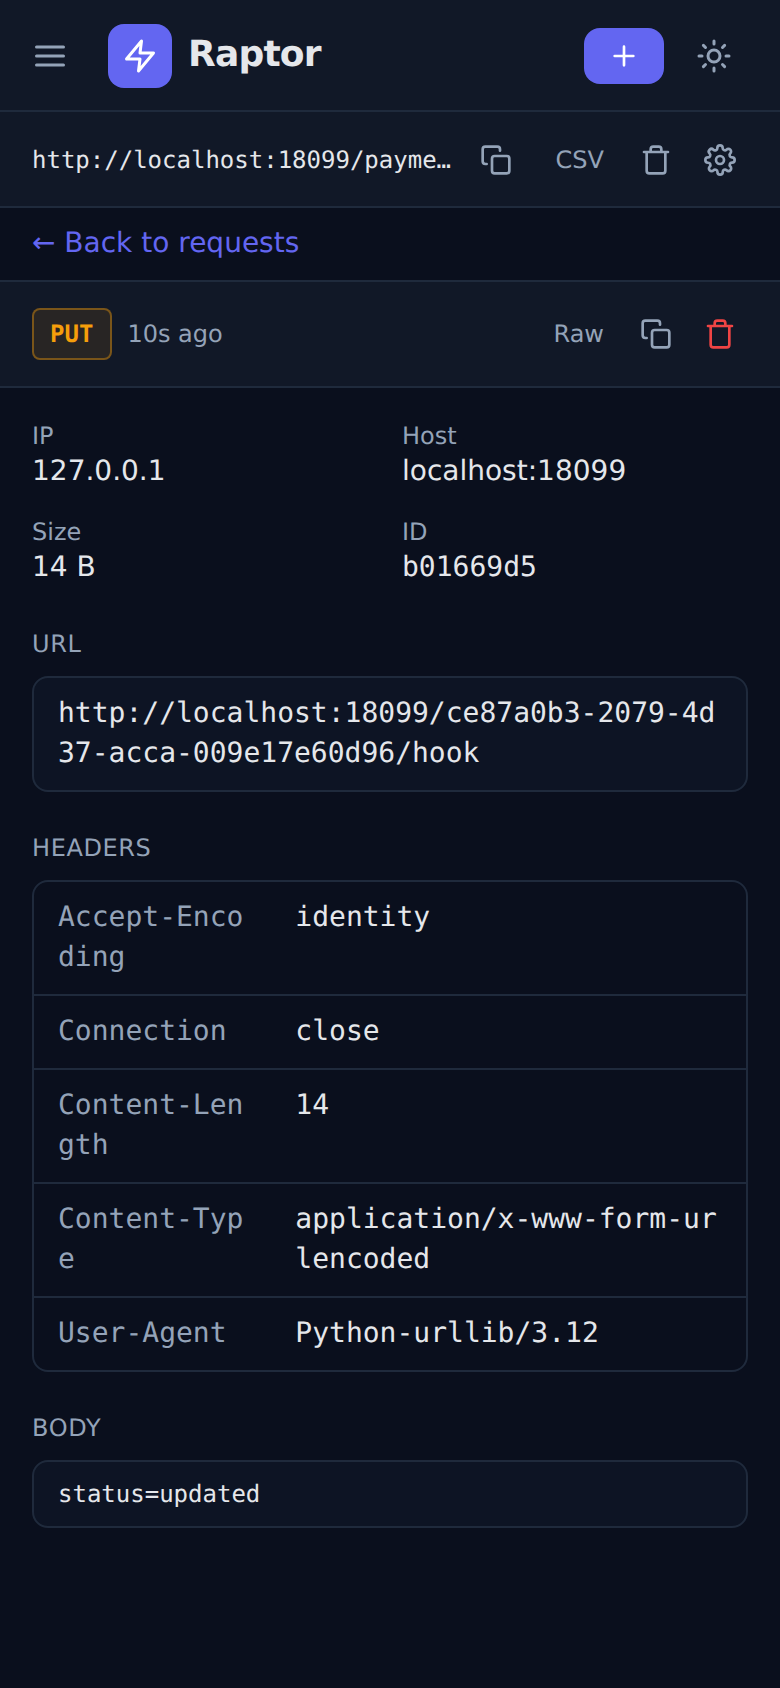
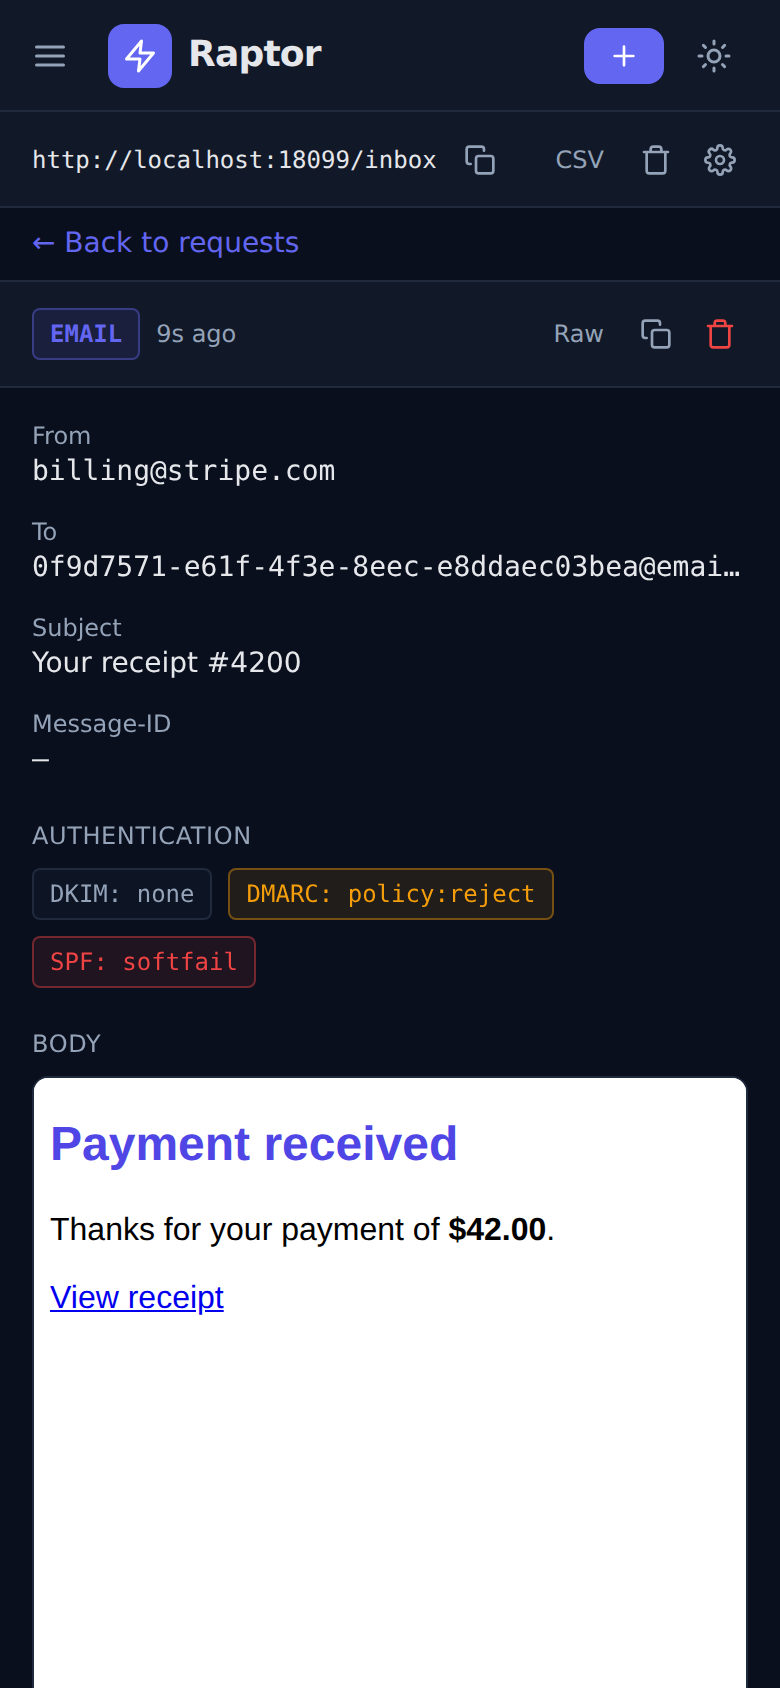
docs: Phase 3 README (email/DNS, setup notes) + OpenAPI schema + screenshots

diff --git a/README.md b/README.md
@@ -5,10 +5,10 @@
 inspect and (in later phases) transform, automate and forward inbound HTTP
 requests — all from a single static binary with an embedded UI.
 
-> Raptor is built in reviewable phases. **Phases 1–2 (current)** deliver the core
-> capture engine, inspection API, a real-time web inbox, request search, groups
-> and a control panel. Email/DNS capture, custom actions, schedules and accounts
-> land in later phases (see [Roadmap](#roadmap)).
+> Raptor is built in reviewable phases. **Phases 1–3 (current)** deliver the core
+> HTTP capture engine, inspection API, a real-time web inbox, request search,
+> groups, a control panel, and **inbound email + DNS capture**. Custom actions,
+> schedules and accounts land in later phases (see [Roadmap](#roadmap)).
 
 ## Screenshots
 
@@ -23,6 +23,12 @@ requests — all from a single static binary with an embedded UI.
 | Search DSL | Control Panel |
 | --- | --- |
 | ![Filtering requests with the search DSL](assets/screenshots/search-dark.png) | ![Control Panel managing URLs and groups](assets/screenshots/control-panel-dark.png) |
+
+### Email & DNS capture
+
+| Email (rendered + auth checks) | DNS query |
+| --- | --- |
+| ![Captured email with sandboxed HTML body and DKIM/SPF/DMARC results](assets/screenshots/email-detail-dark.png) | ![Captured DNS query detail](assets/screenshots/dns-detail-light.png) |
 
 ### Mobile (responsive)
 
@@ -62,6 +68,30 @@ requests — all from a single static binary with an embedded UI.
   and a group can be deleted without losing its URLs.
 - **Control Panel** — manage every URL and group from one table: reassign groups,
   open or delete URLs, and create/delete groups.
+
+### Phase 3 — Email & DNS capture
+
+- **Inbound email** — an SMTP server captures mail sent to
+  `{token}@{email-domain}`. Messages are MIME-parsed (subject, sender, HTML and
+  plain bodies, **attachments**), and **DKIM/SPF/DMARC** are evaluated and shown
+  as badges. HTML bodies render in a fully sandboxed iframe (no script execution).
+- **Inbound DNS** — a DNS server (UDP+TCP) captures queries for
+  `{token}.{dns-domain}` and any subdomain, recording the query name, type and
+  client IP, and returns a minimal answer.
+- Email and DNS captures share the inbox, search, SSE stream and CSV export with
+  HTTP requests — filter them with `type:email` / `type:dns`.
+
+#### Exposing email & DNS
+
+The SMTP (`2525`) and DNS (`5354`) listeners default to unprivileged ports. To
+accept real mail/queries on the standard ports, put a reverse proxy or port
+forward in front (`25 → 2525`, `53 → 5354`), and point DNS at your host:
+
+- **Email:** add an MX record for `emailhook.site` → your host.
+- **DNS:** delegate `dnshook.site` with an NS record pointing at your host, so
+  all `*.dnshook.site` queries reach Raptor.
+
+Override the suffixes with `--email-domain` / `--dns-domain` to use your own.
 
 ## Quick start
 
@@ -161,7 +191,7 @@ is embedded into the Go binary via `embed.FS`, so production ships a single file
 | --- | --- |
 | **1 — Core capture** *(done)* | URLs, HTTP capture, inspection API, real-time SPA inbox, default responses, CSV, metrics |
 | **2 — Response control** *(done)* | Request search DSL, subset delete, groups, control panel |
-| 3 — Email + DNS | Inbound SMTP (`@emailhook`) and DNS (`.dnshook`) capture |
+| **3 — Email + DNS** *(done)* | Inbound SMTP (`@emailhook`) capture with DKIM/SPF/DMARC, inbound DNS (`.dnshook`) capture |
 | 4 — Custom Actions | Action chain engine, variables, conditions, scripting |
 | 5 — Schedules & replay | Cron schedules, alerting, request replay, CLI forwarding |
 | 6 — Accounts & org | API keys, multi-user, SAML SSO, custom domains |